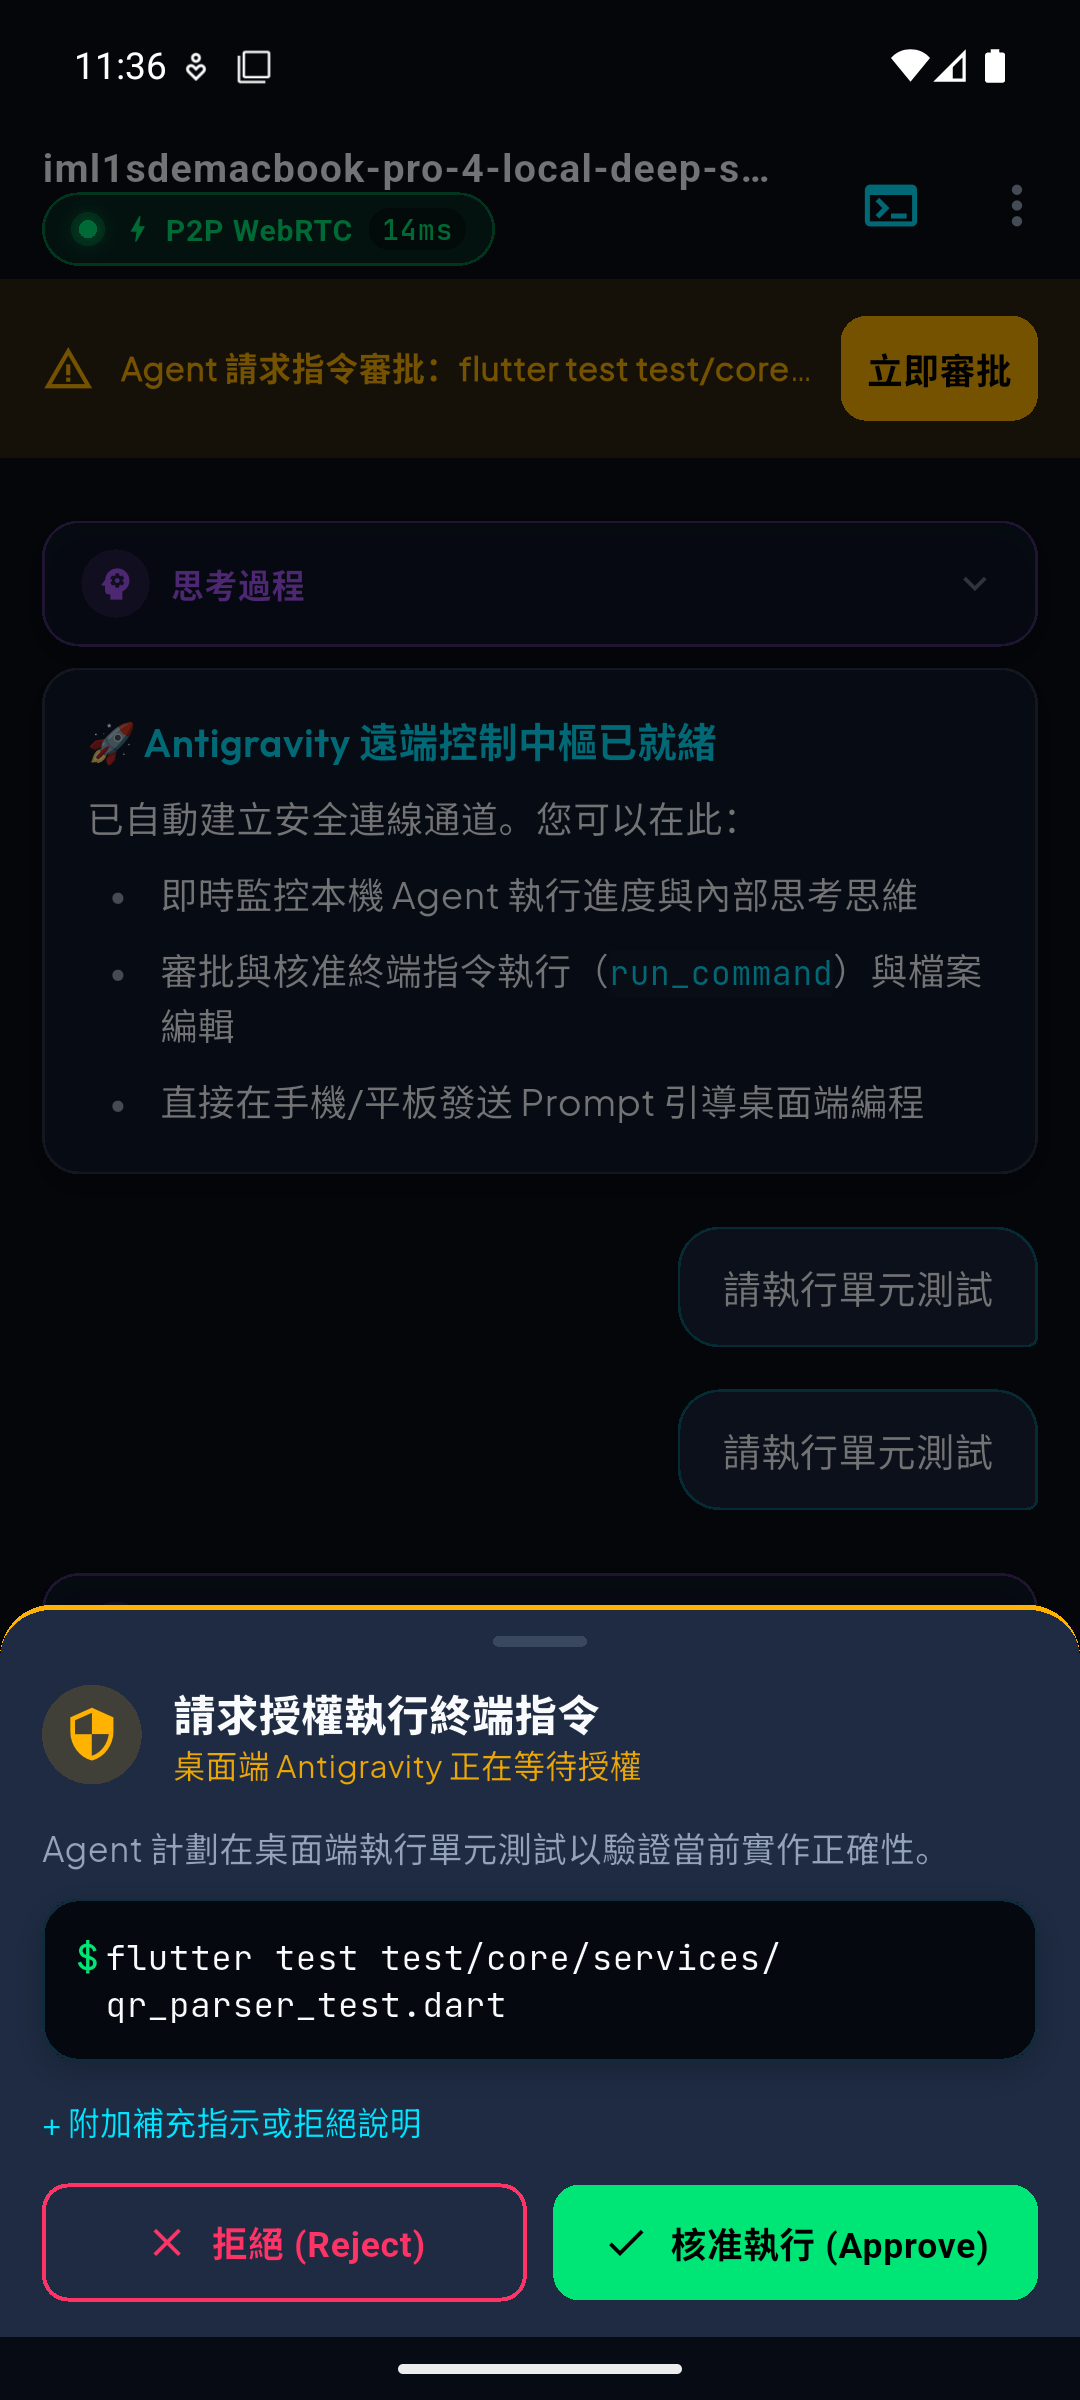
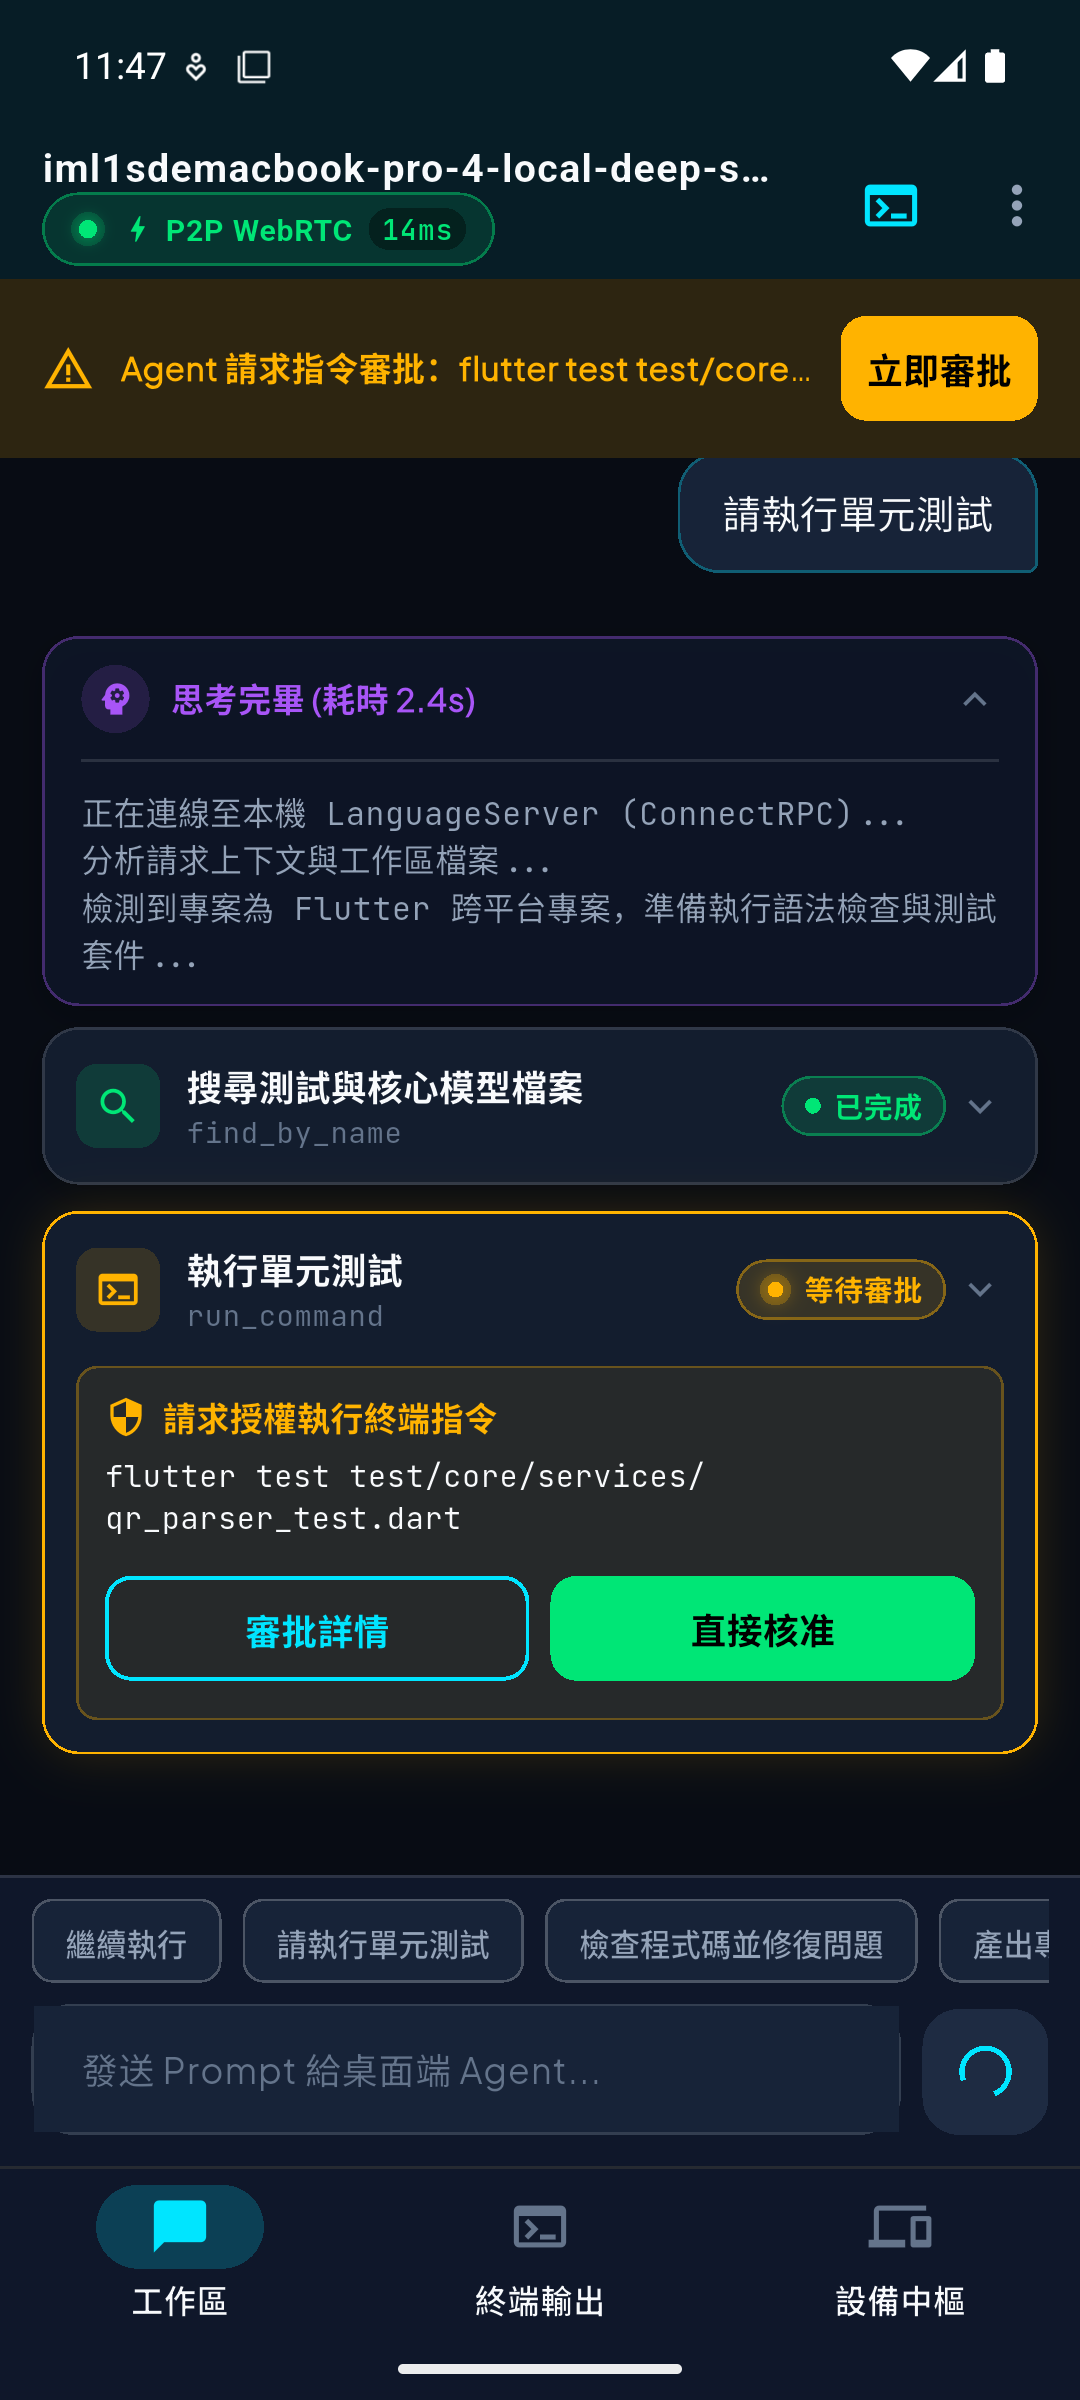
fix(docs): 修復目錄導航錨點、Mermaid 特殊字元與英文版層級，並更新高保真 Android 實機思考審批截圖

diff --git a/lib/features/cascade/providers/cascade_provider.dart b/lib/features/cascade/providers/cascade_provider.dart
@@ -68,7 +68,10 @@ class CascadeNotifier extends Notifier<CascadeState> {
           '- 即時監控本機 Agent 執行進度與內部思考思維\n'
           '- 審批與核准終端指令執行（`run_command`）與檔案編輯\n'
           '- 直接在手機/平板發送 Prompt 引導桌面端編程',
-      thinking: '遠端雙軌連線已初始化，通道安全檢查完畢。',
+      thinking: '正在連線至本機 LanguageServer (ConnectRPC)...\n'
+          '雙軌傳輸通道已就緒 (WebRTC P2P Mesh <20ms / Cloud Relay 備援)。\n'
+          'NIST P-256 安全挑戰已通過驗證，進入遠端調度狀態。',
+      thinkingDuration: const Duration(seconds: 1, milliseconds: 240),
       isThinking: false,
       timestamp: DateTime.now().subtract(const Duration(minutes: 1)),
     );

diff --git a/lib/features/cascade/views/cascade_chat_view.dart b/lib/features/cascade/views/cascade_chat_view.dart
@@ -53,7 +53,9 @@ class _CascadeChatViewState extends ConsumerState<CascadeChatView> {
     final deviceState = ref.watch(deviceProvider);
 
     ref.listen<CascadeState>(cascadeProvider, (prev, next) {
-      if (prev?.messages.length != next.messages.length) {
+      if (prev?.messages.length != next.messages.length ||
+          prev?.pendingInteraction != next.pendingInteraction ||
+          prev?.isStreaming != next.isStreaming) {
         _scrollToBottom();
       }
     });
@@ -219,6 +221,7 @@ class _CascadeChatViewState extends ConsumerState<CascadeChatView> {
               thinking: message.thinking ?? '',
               isThinking: message.isThinking,
               duration: message.thinkingDuration,
+              initiallyExpanded: true,
             ),
 
           // Trajectory Steps

diff --git a/lib/features/cascade/widgets/thinking_card.dart b/lib/features/cascade/widgets/thinking_card.dart
@@ -6,12 +6,14 @@ class ThinkingCard extends StatefulWidget {
   final String thinking;
   final bool isThinking;
   final Duration? duration;
+  final bool initiallyExpanded;
 
   const ThinkingCard({
     super.key,
     required this.thinking,
     this.isThinking = false,
     this.duration,
+    this.initiallyExpanded = false,
   });
 
   @override
@@ -27,7 +29,7 @@ class _ThinkingCardState extends State<ThinkingCard>
   @override
   void initState() {
     super.initState();
-    _isExpanded = widget.isThinking; // 思考中預設展開
+    _isExpanded = widget.isThinking || widget.initiallyExpanded;
 
     _pulseController = AnimationController(
       vsync: this,

diff --git a/README.md b/README.md
@@ -27,6 +27,7 @@
 
 ---
 
+<a name="-核心架構亮點"></a>
 ### 🌟 核心架構亮點 (Architecture Highlights)
 
 #### 1. 系統架構拓撲 (System Architecture Topology)
@@ -109,7 +110,7 @@ flowchart TD
     DTM -->|"協商握手 (SDP / ICE)"| Signal
     Signal <-->|"信令中繼"| LS
 
-    DTM <-->|"軌道 2: WebRTC P2P 直連 (延遲 &lt; 20ms)"| P2PChannel
+    DTM <-->|"軌道 2: WebRTC P2P 直連 (延遲低於 20ms)"| P2PChannel
     P2PChannel --> LS
 ```
 
@@ -186,7 +187,7 @@ sequenceDiagram
     Client->>Client: 使用純 Dart ECDSA P-256 私鑰對 Nonce 計算簽章 (DER 格式)
     Client->>Host: 回傳 Nonce 簽章回應
     Host->>Host: 桌面端以已登錄的 Client 公鑰驗簽
-    Note over Client,Host: 驗證通過：解鎖最高權限遠端控制通道 (延遲 < 20ms)
+    Note over Client,Host: 驗證通過：解鎖最高權限遠端控制通道 (延遲低於 20ms)
 ```
 
 ---
@@ -337,7 +338,7 @@ flowchart TD
     DTM -->|"Signaling Handshake (SDP / ICE)"| Signal
     Signal <-->|"Signaling Relay"| LS
 
-    DTM <-->|"Track 2: WebRTC P2P Direct (Latency &lt; 20ms)"| P2PChannel
+    DTM <-->|"Track 2: WebRTC P2P Direct (Sub-20ms Latency)"| P2PChannel
     P2PChannel --> LS
 ```
 
@@ -411,18 +412,13 @@ sequenceDiagram
     Client->>Client: Sign Nonce using pure Dart ECDSA P-256 private key (DER format)
     Client->>Host: Submit Nonce Challenge Signature Response
     Host->>Host: Verify signature with enrolled Client Public Key
-    Note over Client,Host: Verification Succeeded: Promoted to trusted high-speed P2P pipe (<20ms)
+    Note over Client,Host: Verification Succeeded: Promoted to trusted high-speed P2P pipe (Sub-20ms latency)
 ```
 
-#### 2. Feature Matrix
-- 📸 **Instant QR Code Pairing**: Supports Google AccountChooser URLs, deep links (`antigravity://`), configuration JSON, and raw instance UUIDs.
-- 🧠 **Cascade Reactive Thought Streaming**: Neural pulse animation displaying agent reasoning in real-time (`ThinkingCard`) with precise duration timing.
-- 🛠 **Trajectory Step Cards & Diff Viewer**: Live status of tool executions (`run_command`, `replace_file_content`, etc.) and syntax-highlighted code diffs.
-- 🛡 **Interactive Safety Approvals**: Action sheet prompts when an agent requires authorization (`WAITING_USER_INTERACTION`) with security flags for destructive commands.
-- 💻 **Live Remote Terminal**: Continuous terminal output streaming with specialized virtual keys (`Ctrl+C`, `Enter`, `Tab`, `clear`) and input transmission.
-- 🧪 **Built-in Offline Demo Mode**: High-fidelity simulator (`MockAntigravityService`) enabling comprehensive hands-on evaluation without an active desktop connection.
+---
 
-#### 3. Deck Previews & UI Screenshots
+<a name="-ui-screenshots"></a>
+### 📱 UI Screenshots & Deck Previews
 
 > 📸 **Live Emulator Verification**: All deck screenshots below are captured directly from authentic Android Emulator sessions (Android 15 API 35) running the native Flutter app.
 
@@ -447,6 +443,19 @@ sequenceDiagram
     </tr>
   </table>
 </div>
+
+---
+
+### ✨ Key Features (Feature Matrix)
+
+| Feature Module | Technical Specification |
+| :--- | :--- |
+| 📸 **Instant QR Pairing** | Powered by `mobile_scanner`, parses Google AccountChooser URLs, deep links (`antigravity://`), configuration JSON, and raw instance UUIDs. |
+| 🧠 **Cascade Thought Streaming** | Neural pulse animation displaying agent reasoning in real-time (`ThinkingCard`) with precise duration metrics. |
+| 🛠 **Trajectory Steps & Diff** | Live tool execution cards (`run_command`, `replace_file_content`, etc.) and syntax-highlighted code diffs (`CodeDiffViewer`). |
+| 🛡 **Interactive Security Approval** | Auto-prompts modal when `WAITING_USER_INTERACTION` is received, with safety flags for destructive commands and one-click Approve / Reject. |
+| 💻 **Live Remote Terminal** | Continuous terminal output streaming (`StreamTerminalOutput`) with specialized virtual keys (`Ctrl+C`, `Enter`, `Tab`, `clear`) and input dispatch. |
+| 🧪 **Full Offline Demo Mode** | High-fidelity simulator (`MockAntigravityService`) enabling comprehensive hands-on evaluation without host Mac connectivity. |
 
 ---
 
